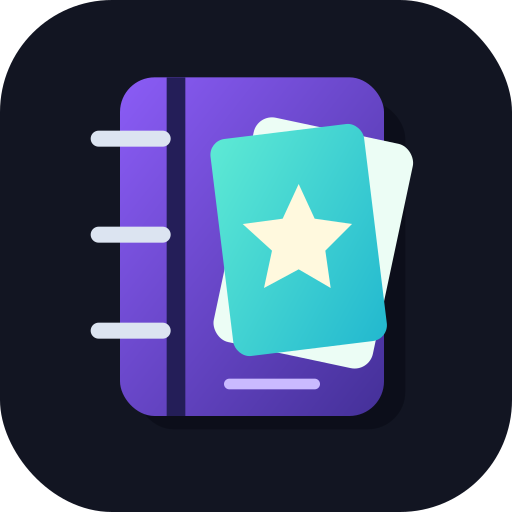
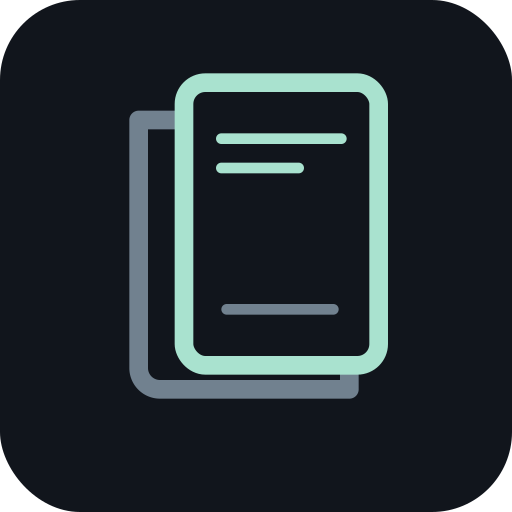
Release 3.9.1: modern collection-only binders and resilient account forms
Use native login/signup forms, preserve in-progress fields across background redraws, retain failed inputs and surface persistent actionable errors. Bound account network requests without altering email verification or existing credentials. Simplify covers and the corner icon; replace binder-style game selection with compact buttons. Tests cover form contracts, field restoration, timeouts and prior deck/binder regressions.

diff --git a/views.js b/views.js
@@ -1500,18 +1500,21 @@ export function signedOutAccount(a, mode = "login") {
   ${a.providers.google ? `<button class="btn ghost block" data-act="signGoogle">Continue with Google</button><div class="auth-divider"><span>or use email</span></div>` : ""}
   ${a.authNotice ? `<p class="note warn" role="alert">${esc(a.authNotice)}</p>` : ""}
   ${a.providers.email ? `<nav class="auth-tabs" role="tablist" aria-label="Account access">${[["login","Log in"],["signup","Create account"]].map(([id,label]) => `<button role="tab" id="authTab-${id}" aria-controls="auth-${id}" aria-selected="${selected === id}" data-act="authTab" data-mode="${id}">${label}</button>`).join("")}</nav>
+  <div id="authFeedback" class="auth-feedback ${esc(S.ui.authFeedback?.tone || "error")}" role="alert" aria-live="polite" ${S.ui.authFeedback?.message ? "" : "hidden"}>${esc(S.ui.authFeedback?.message || "")}</div>
   <div id="auth-login" class="auth-pane" role="tabpanel" aria-labelledby="authTab-login" ${selected === "login" ? "" : "hidden"}>
-    <label class="field">Email address<input id="signEmail" type="email" autocomplete="username" placeholder="you@example.com" aria-label="Login email address"></label>
-    <label class="field">Password<input id="signPassword" type="password" autocomplete="current-password" placeholder="Your password" data-enter="signPassword"></label>
-    <button class="btn block" data-act="signPassword">Log in</button>
+    <form data-auth-action="signPassword">
+    <label class="field">Email address<input id="signEmail" name="email" required type="email" autocomplete="username" placeholder="you@example.com" aria-label="Login email address"></label>
+    <label class="field">Password<input id="signPassword" name="password" required type="password" autocomplete="current-password" placeholder="Your password"></label>
+    <button class="btn block" type="submit">Log in</button></form>
     <button class="link auth-secondary" data-act="authTab" data-mode="reset">Forgot password?</button>
     <details class="settings-disclosure"><summary>Email me a link instead</summary><p class="foot">Use the login email above. Open the link in this browser.</p><button class="btn ghost block" data-act="signEmail">Send sign-in link</button></details>
   </div>
   <div id="auth-signup" class="auth-pane" role="tabpanel" aria-labelledby="authTab-signup" ${selected === "signup" ? "" : "hidden"}>
-    <label class="field">Email address<input id="signupEmail" type="email" autocomplete="email" placeholder="you@example.com" aria-label="Account email address"></label>
-    <label class="field">Password<input id="signupPassword" type="password" autocomplete="new-password" minlength="8" placeholder="At least 8 characters"></label>
-    <label class="field">Confirm password<input id="signupConfirm" type="password" autocomplete="new-password" placeholder="Enter it again" data-enter="createAccount"></label>
-    <button class="btn block" data-act="createAccount">Create account</button><p class="foot">We’ll email you a confirmation link.</p>
+    <form data-auth-action="createAccount">
+    <label class="field">Email address<input id="signupEmail" name="email" required type="email" autocomplete="email" placeholder="you@example.com" aria-label="Account email address"></label>
+    <label class="field">Password<input id="signupPassword" name="password" required type="password" autocomplete="new-password" minlength="8" placeholder="At least 8 characters"></label>
+    <label class="field">Confirm password<input id="signupConfirm" name="password_confirmation" required type="password" autocomplete="new-password" placeholder="Enter it again"></label>
+    <button class="btn block" type="submit">Create account</button></form><p class="foot">${a.providers.confirmationRequired===false ? "Create your account, then start syncing." : "Confirm your email to finish registering. Your browser saving a password does not mean registration succeeded."}</p>
   </div>
   <div id="auth-reset" class="auth-pane" ${selected === "reset" ? "" : "hidden"}><h3>Reset your password</h3><p class="muted small">Enter your account email to request a reset link.</p><label class="field">Email address<input id="resetEmail" type="email" autocomplete="email" placeholder="you@example.com" data-enter="forgotPassword"></label><button class="btn block" data-act="forgotPassword">Send reset link</button><button class="link auth-secondary" data-act="authTab" data-mode="login">Back to log in</button></div>` : `<p class="muted small">Email sign-in is disabled for this site.</p>`}
   <p class="auth-privacy"><span aria-hidden="true">◇</span> Your collection is private. Device saving works without an account.</p>
@@ -1573,7 +1576,7 @@ export function settings() {
   <details class="settings-disclosure settings-danger"><summary>Start over or load examples</summary><p class="foot">Export a backup first. One recovery copy is kept on this device.</p><div class="actions wrap"><button class="btn ghost danger" data-act="reset">Start empty</button><button class="btn ghost" data-act="loadExample">Load example data</button></div></details></div>
   <div id="settings-app" class="settings-pane" role="tabpanel" aria-labelledby="settingsTab-app" ${tab === "app" ? "" : "hidden"}><section class="panel settings-card"><div class="settings-card-heading"><span class="settings-icon" aria-hidden="true">＋</span><div><p class="eyebrow">TAKE IT WITH YOU</p><h2>Install CardStashy</h2></div></div><p class="muted small">Open it from your home screen. Saved collections and decks work offline.</p><button class="btn" data-act="install">Install app</button><details class="settings-disclosure"><summary>Android installation help</summary><p class="foot">In Chrome, open ⋮ → Add to Home screen or Install app. Searches and updated prices need internet.</p></details></section>
   <details class="settings-disclosure settings-source"><summary>Card databases & prices</summary><ul class="sources"><li><b>Magic:</b> Scryfall card data, images and reference prices; MTGJSON precon lists.</li><li><b>Pokémon:</b> TCGdex card data and images, with supplied TCGplayer and Cardmarket prices.</li><li><b>Yu-Gi-Oh!:</b> YGOPRODeck card data, alternate art, printings and reference prices.</li><li><b>Imports:</b> Supported text and CSV exports from deck and collection tools.</li></ul><p class="foot">Prices are estimates; check edition, condition and shipping with the seller.</p></details>
-  <details class="settings-disclosure settings-source"><summary>About CardStashy</summary><p class="foot">Deck scores, upgrades and test games use card rules and simulations; they aren’t guaranteed win rates. CardStashy is an independent fan tool. Trading cards and artwork belong to their respective rights holders.</p><span class="settings-version">Version 3.9.0</span></details></div></div>`;
+  <details class="settings-disclosure settings-source"><summary>About CardStashy</summary><p class="foot">Deck scores, upgrades and test games use card rules and simulations; they aren’t guaranteed win rates. CardStashy is an independent fan tool. Trading cards and artwork belong to their respective rights holders.</p><span class="settings-version">Version 3.9.1</span></details></div></div>`;
 }
 
 /* ---------- Deck idea sheet ---------- */

diff --git a/app.js b/app.js
@@ -1,3 +1,4 @@
+import { captureAuthFields, restoreAuthFields, authFeedback } from "./auth-form.js";
 import { formatUpgrades, applyFormatSwap } from "./format-upgrades.js";
 import { cutToTarget } from "./deck-safety.js";
 import { binderPage, binderMatches, BINDER_COLORS, attachBinderDrag } from "./binders.js";
@@ -539,6 +540,7 @@ function attachBrowseObserver() {
   document.querySelectorAll('[data-act="setMore"], [data-act="tSetMore"]').forEach(b=>browseObserver.observe(b));
 }
 function render() {
+  const authFields=S.ui.view === "settings" && !cloudInfo().user ? captureAuthFields(document) : [];
   browseObserver?.disconnect();
   const ui = S.ui;
   for (const b of $$("[data-nav]")) b.classList.toggle("on", b.dataset.nav === (ui.view === "deck" ? "decks" : ui.view === "set" || ui.view === "sets" ? "search" : ui.view));
@@ -568,6 +570,7 @@ function render() {
     return;
   }
   $("#content").innerHTML = (g !== "mtg" && tcgViews[ui.view] ? tcgViews[ui.view] : views[ui.view] || V.home)();
+  if(!cloudInfo().user)restoreAuthFields(document,authFields);
   attachBrowseObserver();
   if (ui.view === "settings") storageDetail();
   if (g !== "mtg") {
@@ -634,6 +637,10 @@ document.addEventListener("click", (e) => {
   if (t.tagName === "A" && t.getAttribute("href")) return;
   e.preventDefault();
   safely(fn(t, e));
+});
+document.addEventListener("submit",e=>{
+ const form=e.target.closest?.('[data-auth-action]');if(!form)return;
+ e.preventDefault();const action=A[form.dataset.authAction];if(action)safely(action(form.querySelector('button[type="submit"]')));
 });
 document.addEventListener("change", (e) => {
   const t = e.target.closest("[data-change]");
@@ -1019,6 +1026,7 @@ A.authTab = (t) => {
   const mode = t.dataset.mode;
   if (!["login","signup","reset"].includes(mode)) return;
   S.ui.authMode = mode;
+  S.ui.authFeedback=null;authFeedback(document,"");
   const email = $("#signEmail")?.value || "", field = mode === "signup" ? $("#signupEmail") : mode === "reset" ? $("#resetEmail") : null;
   if (field && !field.value) field.value = email;
   for (const pane of document.querySelectorAll(".auth-pane")) pane.hidden = pane.id !== "auth-" + mode;
@@ -1043,22 +1051,27 @@ A.signEmail = async (t) => {
     done();
   }
 };
-A.signPassword = async (t) => {
-  const email = $("#signEmail")?.value.trim() || "", password = $("#signPassword")?.value || "";
-  const done = busy(t?.tagName === "BUTTON" ? t : $('[data-act="signPassword"]'), "Logging in…");
-  try { await signInPassword(email,password); render(); toast("Signed in. Your private account is ready."); }
-  finally { if ($("#signPassword")) $("#signPassword").value = ""; done(); }
-};
-A.createAccount = async (t) => {
-  const email = $("#signupEmail")?.value.trim() || "", password = $("#signupPassword")?.value || "", confirmPassword = $("#signupConfirm")?.value || "";
-  const done = busy(t?.tagName === "BUTTON" ? t : $('[data-act="createAccount"]'), "Creating account…");
-  try { const data = await createAccount(email,password,confirmPassword); render(); toast(data?.session ? "Account created. You’re signed in." : "Check your email to confirm your account. If you already have an account, log in or reset your password."); }
-  finally { for (const id of ["signupPassword","signupConfirm"]) if ($("#"+id)) $("#"+id).value = ""; done(); }
-};
-A.forgotPassword = async (t) => {
-  const email = $("#resetEmail")?.value.trim() || "", done = busy(t,"Sending…");
-  try { await requestPasswordReset(email); toast("If an account exists for that email, a reset link will arrive. Open it in this browser."); } finally { done(); }
-};
+let authSubmitting=false;
+async function runAuth(t,loading,action) {
+ if(authSubmitting)return;authSubmitting=true;authFeedback(document,"");S.ui.authFeedback=null;
+ const done=busy(t,loading);
+ try{const message=await action();for(const id of ["signPassword","signupPassword","signupConfirm"]){const field=$("#"+id);if(field)field.value="";}S.ui.authFeedback={message,tone:"success"};render();authFeedback(document,message,"success");}
+ catch(e){const message=e.message || "Couldn’t connect. Please try again.";S.ui.authFeedback={message,tone:"error"};authFeedback(document,message,"error");}
+ finally{authSubmitting=false;done();}
+}
+A.signPassword = t => runAuth(t,"Logging in…",async()=>{
+ const email=$("#signEmail")?.value.trim() || "",password=$("#signPassword")?.value || "";
+ await signInPassword(email,password);return "Signed in. Your private account is ready.";
+});
+A.createAccount = t => runAuth(t,"Creating account…",async()=>{
+ const email=$("#signupEmail")?.value.trim() || "",password=$("#signupPassword")?.value || "",confirm=$("#signupConfirm")?.value || "";
+ const data=await createAccount(email,password,confirm);
+ if(data?.session)return "Account created. You’re signed in.";
+ return "Check your inbox and spam for the confirmation email, then return to Log in. If you already registered, log in or reset your password.";
+});
+A.forgotPassword = t => runAuth(t,"Sending…",async()=>{
+ await requestPasswordReset($("#resetEmail")?.value.trim() || "");return "If an account exists, a reset link will arrive. Open it in this browser.";
+});
 A.accountResetPassword = async (t) => {
   const email = cloudInfo().user?.email || "", done = busy(t,"Sending…");
   try { await requestPasswordReset(email); toast("Check your email for a password-reset link. Open it in this browser."); } finally { done(); }

diff --git a/style.css b/style.css
@@ -1160,3 +1160,39 @@ dialog.sheet { overflow: hidden; }
 
 /* Native hidden state must win over component display rules. */
 [hidden]{display:none !important;}
+
+.auth-feedback{padding:12px 14px;margin:0 0 16px;border:1px solid var(--line);border-radius:8px;font-size:13px;line-height:1.6;}.auth-feedback.error{color:#ffb8b8;background:#542b2b33;border-color:#a3515166;}.auth-feedback.success{color:#9ee1bd;background:#1b4b3033;border-color:#47835f66;}
+
+/* Modern collection binders: restrained materials, clear corners and real card artwork. */
+.stash-shelf{grid-template-columns:repeat(auto-fill,minmax(180px,1fr));gap:20px;padding:18px 0;}
+.stash-binder{padding:12px 10px;border-radius:10px;gap:14px;perspective:1100px;}
+.stash-book{width:156px;height:208px;transform:rotateY(-8deg);filter:drop-shadow(4px 8px 8px #0004);}
+.stash-pages{inset:3px -3px 3px 11px;border-radius:3px 6px 6px 3px;background:repeating-linear-gradient(90deg,#bcc1c8 0 1px,#e1e4e9 1px 3px);}
+.stash-pages i{display:none;}
+.stash-cover{padding:19px 13px 15px 22px;border-radius:3px 7px 7px 3px;background:var(--binder);box-shadow:inset 0 0 0 1px #ffffff22,inset 1px 0 2px #ffffff18;justify-content:center;}
+.stash-spine{left:6px;width:9px;border-left:1px solid #ffffff18;border-right:1px solid #0005;background:#0002;}
+.stash-foil{opacity:.035;background:linear-gradient(115deg,transparent 40%,#fff 51%,transparent 63%);}
+.stash-emblem{width:100%;height:146px;padding:7px;border:1px solid #ffffff33;border-radius:3px;background:#10141924;box-shadow:0 1px 2px #0002;}
+.stash-emblem img{object-fit:contain;}
+.stash-emblem img[src="icon.svg"]{width:54px;height:54px;opacity:.7;}
+.stash-cover-title{font-size:10px;font-weight:600;letter-spacing:.025em;line-height:1.4;margin-top:10px;color:#fff;}
+.stash-custom-background{opacity:.8;}
+.stash-binder-label b{font-size:14px;font-weight:650;line-height:1.45;}
+.stash-binder-label small{font-size:12px;}
+.stash-open-hint{font-size:11px;color:var(--muted);}
+.stash-binder:hover .stash-book,.stash-binder:focus-visible .stash-book{transform:rotateY(-4deg) translateY(-4px);}
+.stash-binder:hover .stash-cover,.stash-binder:focus-visible .stash-cover{transform:rotateY(-16deg);}
+.stash-open-book{border-radius:8px;background:#181c23;border:1px solid #3b424d;padding-top:12px;padding-bottom:12px;box-shadow:inset 2px 0 8px #0003;}
+.stash-pocket{border-radius:3px;padding:4px;border-color:#69778555;background:#ffffff03;box-shadow:inset 0 1px 0 #ffffff12;}
+.pocket-image{border-radius:2px;background:#101319;}
+.pocket-glint{background:linear-gradient(115deg,transparent 48%,#ffffff08 50%,transparent 52%);}
+.pocket-star{bottom:31px;right:6px;border-radius:5px;width:28px;height:28px;background:#171c23e8;border-color:#ffffff33;}
+.stash-rings i{height:12px;width:22px;border-width:3px;border-radius:5px;}
+.binder-page-edge{width:24px;border-radius:2px;}
+.brand .mark{border-radius:7px;background:transparent;box-shadow:none;}
+.game-choice-list{display:grid;grid-template-columns:repeat(3,minmax(0,1fr));gap:10px;margin:18px 0;}
+.game-choice{display:grid;grid-template-columns:28px minmax(0,1fr) 12px;align-items:center;gap:12px;text-align:left;border:1px solid var(--line);border-radius:8px;background:var(--surface);color:var(--text);padding:16px 12px;cursor:pointer;min-height:72px;}
+.game-choice[aria-pressed="true"]{border-color:var(--accent);background:var(--surface-2);}
+.game-choice-icon svg{width:25px;height:25px;}.game-choice b,.game-choice small{display:block;}.game-choice b{font-size:13px;}.game-choice small{font-size:11px;color:var(--muted);margin-top:5px;}.game-choice-check{color:var(--accent);}
+@media(max-width:540px){.stash-shelf{grid-template-columns:repeat(2,minmax(0,1fr));gap:12px;}.stash-shelf .stash-book{width:125px;height:175px;}.stash-shelf .stash-emblem{height:119px;}.stash-cover{padding:13px 9px 12px 17px;}.stash-cover-title{font-size:9px;margin-top:8px;}.game-choice-list{grid-template-columns:1fr;gap:8px;}.game-choice{padding:12px 14px;min-height:62px;}.stash-page-tools{flex-wrap:wrap;gap:8px;}}
+@media(prefers-reduced-motion:reduce){.stash-binder:hover .stash-book,.stash-binder:focus-visible .stash-book,.stash-binder:hover .stash-cover,.stash-binder:focus-visible .stash-cover{transform:none;}}

diff --git a/binders.js b/binders.js
@@ -9,8 +9,8 @@ export function binderGroups(rows) {
   }
   return [...groups.values()].sort((a,b)=>a.title.localeCompare(b.title));
 }
-export function binderCover({title,subtitle,game='mtg',image='',attrs='',hint='Open binder ↗',color='',background=''}) {
-  return `<button class="stash-binder stash-${esc(game)}" ${color ? `style="--binder:${esc(color)};--binder-light:#ddd2fa"` : ""} ${attrs}><span class="stash-book" aria-hidden="true"><span class="stash-pages"><i></i><i></i><i></i></span><span class="stash-cover">${background ? `<img class="stash-custom-background" src="${esc(background)}" alt="" loading="lazy" onerror="this.hidden=true">` : ""}<span class="stash-spine"></span><span class="stash-foil"></span><span class="stash-emblem">${image ? `<img src="${esc(image)}" alt="" loading="lazy" onerror="this.hidden=true">` : '<img src="icon.svg" alt="">'}</span><span class="stash-cover-title">${esc(title)}</span><span class="stash-cover-brand">CARDSTASHY</span></span></span><span class="stash-binder-label"><b>${esc(title)}</b><small>${esc(subtitle)}</small><span class="stash-open-hint">${esc(hint)}</span></span></button>`;
+export function binderCover({title,subtitle,game='mtg',image='',attrs='',hint='Open binder',color='',background=''}) {
+  return `<button class="stash-binder stash-${esc(game)}" ${color ? `style="--binder:${esc(color)};--binder-light:#ddd2fa"` : ""} ${attrs}><span class="stash-book" aria-hidden="true"><span class="stash-pages"><i></i><i></i><i></i></span><span class="stash-cover">${background ? `<img class="stash-custom-background" src="${esc(background)}" alt="" loading="lazy" onerror="this.hidden=true">` : ""}<span class="stash-spine"></span><span class="stash-foil"></span><span class="stash-emblem">${image ? `<img src="${esc(image)}" alt="" loading="lazy" onerror="this.hidden=true">` : '<img src="icon.svg" alt="">'}</span><span class="stash-cover-title">${esc(title)}</span></span></span><span class="stash-binder-label"><b>${esc(title)}</b><small>${esc(subtitle)}</small><span class="stash-open-hint">${esc(hint)}</span></span></button>`;
 }
 export function binderShelf(rows,game,custom=[]) {
   const groups=binderGroups(rows), customs=customBinderGroups(rows,custom,game);

diff --git a/tcg.js b/tcg.js
@@ -1,5 +1,5 @@
 import { zoneCountLabel } from "./deck-safety.js";
-import { binderShelf, binderCover } from "./binders.js";
+import { binderShelf } from "./binders.js";
 import { scanControls } from "./scan-camera.js";
 // Yu-Gi-Oh! and Pokémon: collection, search, sets and deck building, sharing one
 // set of screens. Each game's data, rules and formats come from its adapter.
@@ -181,11 +181,11 @@ function deckStats(g, d) {
 /* ---------- shared pieces ---------- */
 
 export function gameBinders(active = game()) {
-  return `<section class="binders" aria-label="Your games">${GAME_IDS.map((g) => {
+  return `<section class="game-choice-list" aria-label="Your games">${GAME_IDS.map((g) => {
     const v = g === "mtg" ? null : collectionValue(g),
       mtgCopies = g === "mtg" ? S.state.collection.reduce((a, e) => a + e.qty, 0) : 0,
       decks = g === "mtg" ? S.state.decks.length : gs(g).decks.length;
-    return binderCover({title:GAMES[g].short,subtitle:`${g === "mtg" ? mtgCopies : v.copies} cards · ${decks} decks`,game:g,hint:"Choose game",attrs:`data-act="setGame" data-game="${g}" aria-pressed="${g === active}"`});
+    return `<button class="game-choice" data-act="setGame" data-game="${g}" aria-pressed="${g===active}"><span class="game-choice-icon">${GAME_ICON[g]}</span><span><b>${esc(GAMES[g].short)}</b><small>${g === "mtg" ? mtgCopies : v.copies} cards · ${decks} decks</small></span><span class="game-choice-check" aria-hidden="true">${g===active ? "✓" : ""}</span></button>`;
   }).join("")}</section>`;
 }
 

diff --git a/cloud.js b/cloud.js
@@ -1,3 +1,4 @@
+import { timedFetch } from "./auth-form.js";
 // Accounts and cloud saving (Supabase). Device storage stays the source the app
 // works from; the account holds a private copy that follows you to other devices.
 // Writes are revision-checked, so two devices never silently overwrite each other.
@@ -125,7 +126,7 @@ export async function initCloud(h) {
   if (!cloudConfigured()) return;
   try {
     const { createClient } = await import(/* @vite-ignore */ LIB);
-    client = createClient(SUPABASE.url, SUPABASE.key, { auth: { flowType: "pkce", detectSessionInUrl: true, persistSession: true, autoRefreshToken: true } });
+    client = createClient(SUPABASE.url, SUPABASE.key, { global: { fetch: timedFetch }, auth: { flowType: "pkce", detectSessionInUrl: true, persistSession: true, autoRefreshToken: true } });
   } catch {
     status.state = "error";
     status.msg = "Couldn’t load the account service. Your cards are still saved on this device.";
@@ -137,7 +138,7 @@ export async function initCloud(h) {
     .then((r) => (r.ok ? r.json() : null))
     .then((d) => {
       if (d?.external) {
-        providers = { email: d.external.email !== false, google: !!d.external.google };
+        providers = { email: d.external.email !== false, google: !!d.external.google, confirmationRequired: d.mailer_autoconfirm !== true, signup: d.disable_signup !== true };
         hooks.changed();
       }
     })

diff --git a/auth-form.js b/auth-form.js
@@ -1,0 +1,12 @@
+// Form values live only in the DOM and this render-local snapshot, never in saved state.
+const IDS=['signEmail','signPassword','signupEmail','signupPassword','signupConfirm','resetEmail'];
+export function captureAuthFields(root){return IDS.flatMap(id=>{const e=root.querySelector('#'+id);return e?[{id,value:e.value}]:[];});}
+export function restoreAuthFields(root,fields){for(const {id,value} of fields){const e=root.querySelector('#'+id);if(e)e.value=value;}}
+export function authFeedback(root,message,tone='error') {
+ const e=root.querySelector('#authFeedback');if(!e)return;e.hidden=!message;e.textContent=message;e.className='auth-feedback '+tone;if(message)e.scrollIntoView?.({block:'nearest',behavior:'smooth'});
+}
+export async function timedFetch(input,options={},timeoutMs=20000,fetcher=fetch){
+ const controller=new AbortController(),timer=setTimeout(()=>controller.abort(),timeoutMs),parent=options.signal;
+ const abort=()=>controller.abort();if(parent?.aborted)abort();else parent?.addEventListener('abort',abort,{once:true});
+ try{return await fetcher(input,{...options,signal:controller.signal});}catch(e){if(controller.signal.aborted&&!parent?.aborted)throw Error('The account service took too long to respond. Check your connection and try again.');throw e;}finally{clearTimeout(timer);parent?.removeEventListener('abort',abort);}
+}

diff --git a/password-auth.js b/password-auth.js
@@ -6,11 +6,12 @@ export function validateNewPassword(password, confirm) {
 }
 export function authError(error) {
   const code = error?.code || "", message = String(error?.message || error || "");
-  if (code === "invalid_credentials") return "Email or password is incorrect. Try again or use Forgot password.";
+  if (code === "invalid_credentials" || /invalid login credentials/i.test(message)) return "Email or password is incorrect. Try again or use Forgot password.";
   if (code === "email_not_confirmed") return "Confirm your email before logging in. Check your inbox and spam folder.";
   if (code === "email_address_not_authorized") return "Email delivery isn’t configured for this address yet. The site owner needs to set up Supabase SMTP.";
   if (/rate_limit|over_email_send_rate_limit/.test(code)) return "Too many requests. Wait before trying again.";
   if (/otp_expired|flow_state_expired|bad_code_verifier|flow_state_not_found/.test(code)) return "This sign-in or reset link expired, or was opened in a different browser. Request a new link and open it in the same browser.";
+  if (/fetch|network|load failed/i.test(message)) return "Couldn’t reach the account service. Check your connection and try again.";
   return message || "Sign-in failed. Please try again.";
 }
 export function createPasswordAuth(auth, redirectTo) {

diff --git a/sw.js b/sw.js
@@ -1,4 +1,4 @@
-const CACHE = "cardforge-shell-v47";
+const CACHE = "cardforge-shell-v48";
 const ASSETS = [
   "./",
   "./index.html",
@@ -22,6 +22,7 @@ const ASSETS = [
   "./share.js",
   "./cloud.js",
   "./password-auth.js",
+  "./auth-form.js",
   "./config.js",
   "./formats.js",
   "./builder.js",
